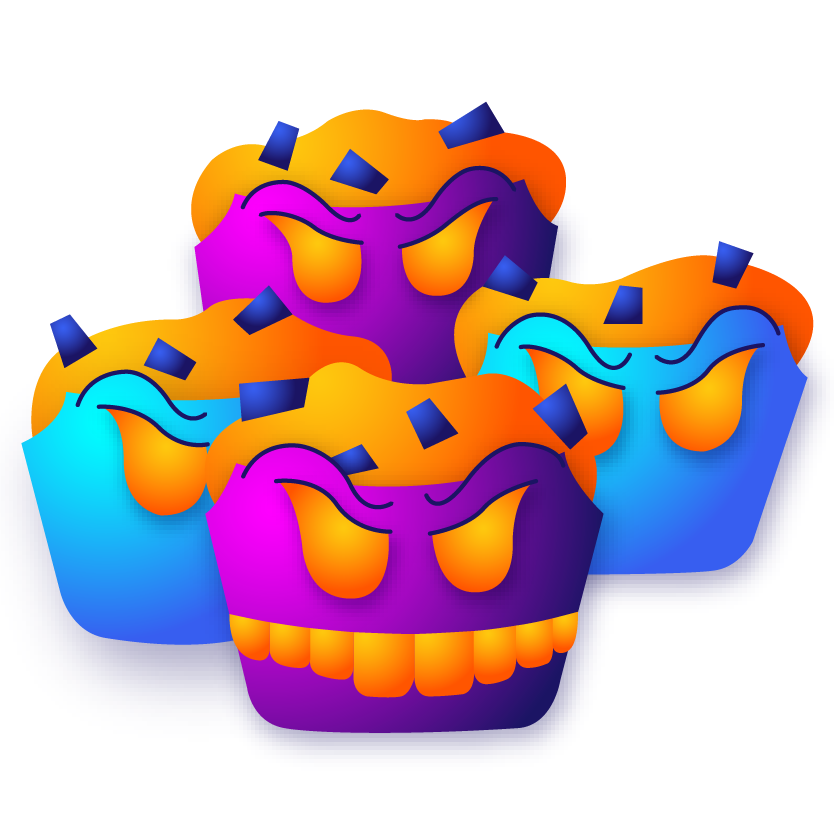
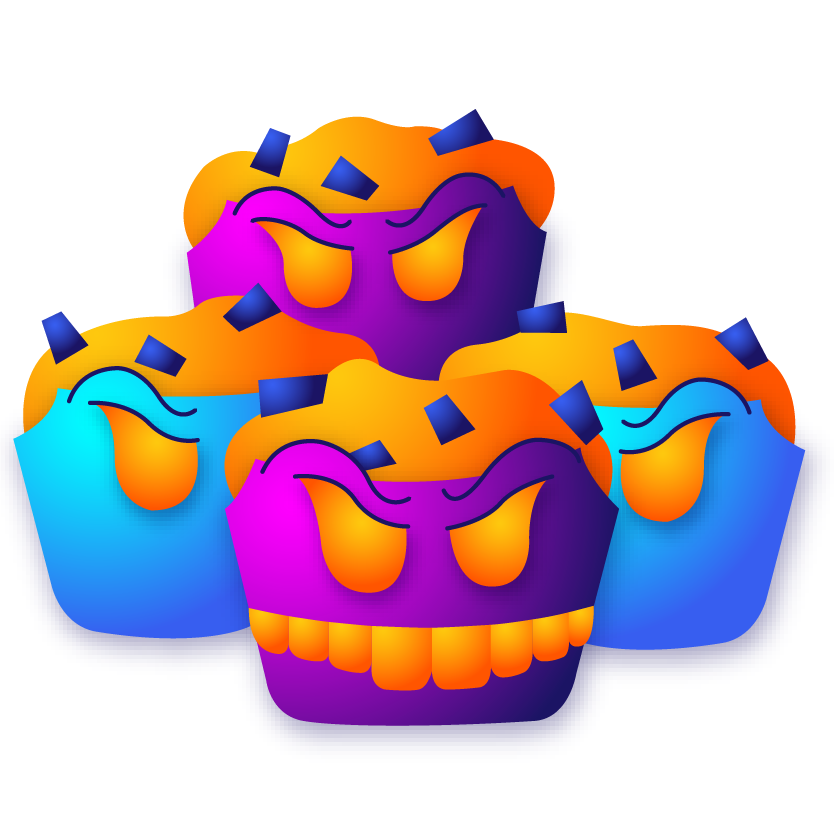
Changed some small coding problems and updated character images.

Changed region(s): [[0.0, 0.1247, 0.9976, 0.9041], [0.0624, 0.6859, 0.0935, 0.7482]]

diff --git a/src/app/select-characters/select-characters.component.html b/src/app/select-characters/select-characters.component.html
@@ -3,14 +3,14 @@
     <div class="ui sixteen wide column">
       <h3 class="ui header">Claim your slaughter</h3>
       <ul class="filters container">
-        <li class="filter-label"><b>Type:</b></li>
+        <li class="filter-label"><b>Type</b></li>
         <li class="filter" [ngClass]="{ active: filters.indexOf('drink') !== -1 }"><a (click)="toggleFilter('drink')"><img src="/assets/icons/drink.svg"/></a></li>
         <li class="filter" [ngClass]="{ active: filters.indexOf('appetizer') !== -1 }"><a (click)="toggleFilter('appetizer')"><img src="/assets/icons/appetizer.svg"/></a></li>
         <li class="filter" [ngClass]="{ active: filters.indexOf('entree') !== -1 }"><a (click)="toggleFilter('entree')"><img src="/assets/icons/entree.svg"/></a></li>
         <li class="filter" [ngClass]="{ active: filters.indexOf('dessert') !== -1 }"><a (click)="toggleFilter('dessert')"><img src="/assets/icons/dessert.svg"/></a></li>
       </ul>
       <ul class="filters container">
-        <li class="filter-label"><b>Class:</b></li>
+        <li class="filter-label"><b>Class</b></li>
         <li class="filter" [ngClass]="{ active: filters.indexOf('carnivore') !== -1 }"><a (click)="toggleFilter('carnivore')"><img src="/assets/icons/carnivore.svg"/></a></li>
         <li class="filter" [ngClass]="{ active: filters.indexOf('herbivore') !== -1 }"><a (click)="toggleFilter('herbivore')"><img src="/assets/icons/herbivore.svg"/></a></li>
       </ul>

diff --git a/src/app/character.service.ts b/src/app/character.service.ts
@@ -37,7 +37,7 @@ export class CharacterService {
         new Entree(
             'Philibert',
             CharacterSubtype.CARNIVORE, 13.99,
-            '',
+            'Sliced sirloin, peppers, onions, mayo and provolone, on a hoagie roll.',
             23, 50, 78, 90,
             '-4px', '0px', '130%'),
         new Appetizer(
@@ -57,7 +57,7 @@ export class CharacterService {
             CharacterSubtype.HERBIVORE, 8.99,
             'Shredded mozzarella, Parmesan, artichokes, spinach, cream cheese, sour cream in crescent bowls. A splendid mix of gooey, cheesy, firm and flakey. Watch your step, you never know what you will get.',
             34, 46, 57, 35,
-            '-1px', '-15px', '125%'),
+            '-2px', '-12px', '125%'),
         new Dessert(
             'Caine',
             CharacterSubtype.HERBIVORE, 6.99,
@@ -73,7 +73,7 @@ export class CharacterService {
         new Dessert(
             'Ignace',
             CharacterSubtype.HERBIVORE, 6.99,
-            '',
+            'Ice cream topped with chocolate syrup, whipped cream and a maraschino cherry.',
             87, 80, 2, 8,
             '-39px', '-22px', '170%'),
         new Drink(
